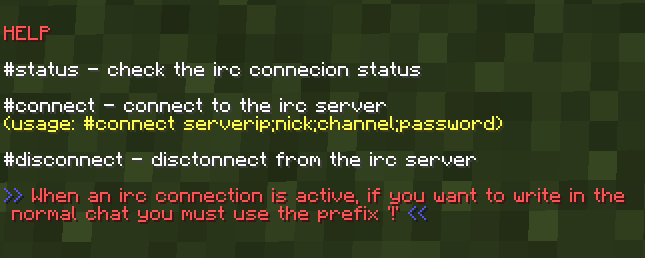
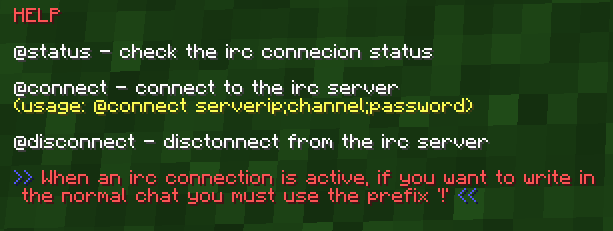
1.0.2 release

diff --git a/src/main/java/net/just/irc/IRCHandler.java b/src/main/java/net/just/irc/IRCHandler.java
@@ -2,6 +2,7 @@ package net.just.irc;
 
 import java.io.*;
 import java.net.*;
+import java.util.concurrent.atomic.AtomicBoolean;
 
 
 public class IRCHandler 
@@ -14,12 +15,15 @@ public class IRCHandler
     
     private String password = "";
     
-    private boolean flag = true;
     
     private BufferedWriter writer;
     private BufferedReader reader;
     
     private Socket socket = null;
+    
+    private boolean flag = true;
+    
+    private AtomicBoolean processed = new AtomicBoolean(true);
 
     public IRCHandler(String server, String nick, String channelname, String password) 
     {
@@ -29,7 +33,8 @@ public class IRCHandler
 		this.channelname = channelname;
 		this.password = password;
 	}
-
+    
+    
 	public void startConn(){
 		new Thread(() -> {
 			try 
@@ -39,121 +44,128 @@ public class IRCHandler
 				writer = new BufferedWriter(new OutputStreamWriter(socket.getOutputStream()));
 				
 				reader = new BufferedReader(new InputStreamReader(socket.getInputStream()));
-			} catch (UnknownHostException e2) 
-			{
-				e2.printStackTrace();
 				
-				ChatUtils.message("\u00A7cUnknown Host");
-				socket = null;
-				
-			} catch (IOException e2) 
-			{
-				e2.printStackTrace();
-				socket = null;
-			}
-
-	        new Thread(() -> {
-	            try {
-	                String line = null;
-	                while ((line = reader.readLine()) != null) {
-	                	
-	                	if(flag)
-	                	{
-	                		//ChatUtils.message(line);
-	                		//System.out.println(line);
-	                		if(line.contains("incorrect channel key"))
-	                		{
-	                			ChatUtils.message("\u00A7cCannot join channel (incorrect channel key)");
-	                			closeConnection();
-	                		}
-	                	}
-	                	else
-	                	{
-	                		String[] f1 = line.split(":");
-	                		String[] f2 = f1[1].split("!");
-	                		/*StringTokenizer st = new StringTokenizer(line,":");
-	                		StringTokenizer st1 = new StringTokenizer(st.nextToken(),"!");*/
-	                		ChatUtils.message("\u00A7c" + f2[0] + " \u00A7f>> " + f1[2]);
-	                		//ChatUtils.message(line);
-	                	}
-	                }
-	            } catch (Exception e) {
-	                System.err.println(e.getMessage());
-	                login(writer);
-	            }
-
-	        }).start();
-
-	        if(login(writer))
-	        {
-	        	
-	        	ChatUtils.message("\u00A7aconnected " + server + " success");
-		        ChatUtils.message("\u00A76waiting for the channel...");
-	        	
-		        try
-		        {
-					Thread.sleep(10000);
-				} catch (InterruptedException e1) {
-					// TODO Auto-generated catch block
-					e1.printStackTrace();
-				}
-		        
-	        	if(join("#" + channelname + " " + password))
-	        	{
-	        		try {
-	    				Thread.sleep(10000);
+				synchronized(processed) 
+			    {
+			    	login(writer);
+			        ChatUtils.message("\u00A7aconnected " + server + " success");
+				    ChatUtils.message("\u00A76waiting for the channel...");
+				    
+				    Listener();
+				    
+				    try {
+						processed.wait();
+					} catch (InterruptedException e) {
+						// TODO Auto-generated catch block
+						e.printStackTrace();
+					}
+			        join("#" + channelname + " " + password);
+			        
+			        try {
+	    				Thread.sleep(1000);
 	    			} catch (InterruptedException e) {
 	    				// TODO Auto-generated catch block
 	    				e.printStackTrace();
 	    			}
-	        		if(isOpen())
-	        		{
-	        			ChatUtils.message("\u00A7e[\u00A7aDONE\u00A7e]");
-	        			flag = false;
-	        		}
-	        	}
-	        	else
-	        	{
-	        		ChatUtils.message("\u00A7c Channel connection failed!");
-	        		closeConnection();
-	        	}
-	        }
-	        else
-	        {
-	        	ChatUtils.message("\u00A7c Login failed!");
-	        	closeConnection();
-	        }
-	        
-	        
-		}).start();
-        
-        
-        
-       //sendGroupMsg(groupMsg);
-        //System.exit(0);
+			        
+			        if(isOpen())
+			        {
+			        	ChatUtils.message("\u00A7e[\u00A7aDONE\u00A7e]");
+			        }
+			    }
+				
+				
+				
+			} catch (Exception e) 
+			{
+				e.printStackTrace();
+				
+				ChatUtils.message("\u00A7cUnknown Host");
+				//socket = null;
+				
+			}
+	         
+		}).start();    
+       //System.exit(0);
     }
+	
+	
+	public void Listener()
+	{
+		new Thread(() -> {
+            try {
+                String line = null;
+                while ((line = reader.readLine()) != null) {
+                	
+                	if(line.startsWith("PING"))
+            		{
+            			writer.write(line.replace("PING", "PONG"));
+            			sendGroupMsg("PONG");
+            			//ChatUtils.message("Rispondo al PING: PONG");
+            		}
+                	
+                	
+                	if(flag)
+                	{
+                		if(line.contains("incorrect channel key"))
+                		{
+                			ChatUtils.message("\u00A7cCannot join channel (incorrect channel key)");
+                			closeConnection();
+                		}
+                		
+                		if(line.toLowerCase().contains("message of the day"))
+                		{
+                			synchronized(processed) 
+                			{
+                	            processed.notify();
+                	        }
+                		}
+                		
+                		if(line.toLowerCase().contains("/names"))
+                		{
+                			flag = false;
+                		}
+                	}
+                	else
+                	{
+                		try
+                		{
+                			String[] f1 = line.split(":");
+                        	String[] f2 = f1[1].split("!");
+                        	ChatUtils.message("\u00A7c" + f2[0] + " \u00A7f>> " + f1[2]);
+                		}
+                		catch(Exception e) {}
+                	}
 
-    public boolean join(String channelname) {
+                }
+            } catch (Exception e) {
+                System.err.println(e.getMessage());
+                if (isOpen()) login(writer);
+            }
+
+        }).start();
+	}
+
+    public void join(String channelname) {
         try {
             writer.write("JOIN " + channelname + "\r\n");
             writer.flush();
-            return true;
         } catch (IOException e) {
             System.err.println("join error " + e.getMessage());
+            ChatUtils.message("\u00A7cChannel connection failed!");
             login(writer);
-            return false;
         }
     }
 
-    public boolean login(BufferedWriter writer) {
+    public void login(BufferedWriter writer) {
         try {
             writer.write("NICK " + nick + "\r\n");
             writer.write("USER " + nick + " mc * : "+  nick + "\r\n");
             writer.flush();
-            return true;
         } catch (IOException e) {
             System.err.println("login error " + e.getMessage());
-            return false;
+            ChatUtils.message("\u00A7cLogin failed!");
+        	closeConnection();
         }
     }
 
@@ -184,6 +196,7 @@ public class IRCHandler
     	try 
     	{
 			socket.close();
+			
 		} catch (IOException e) 
     	{
 			e.printStackTrace();
@@ -192,7 +205,7 @@ public class IRCHandler
     
     public boolean isOpen()
     {
-    	if(socket.isClosed() || socket == null)
+    	if(socket == null || socket.isClosed())
     	{
     		return false;
     	}
@@ -217,5 +230,9 @@ public class IRCHandler
 	{
 		return nick;
 	}
-    
+	
+	public Socket getSocket()
+	{
+		return socket;
+	}
 }

diff --git a/src/main/java/net/just/irc/mixin/ChatManager.java b/src/main/java/net/just/irc/mixin/ChatManager.java
@@ -14,13 +14,13 @@ import org.spongepowered.asm.mixin.injection.callback.CallbackInfo;
 @Mixin(ClientPlayerEntity.class)
 public class ChatManager 
 {
-	private String prefix = "#";
+	private String prefix = "@";
 	private String global = "!";
 	private String previusGlobal = null;
 	
 	private String help = "\n\n\u00A7cHELP \u00A7f\n\n"
 			+ prefix + "status - check the irc connecion status\n\n"
-			+ prefix + "connect - connect to the irc server \n\u00A7e(usage: "+prefix+"connect serverip;nick;channel;password)\u00A7f\n\n"
+			+ prefix + "connect - connect to the irc server \n\u00A7e(usage: "+prefix+"connect serverip;channel;password)\u00A7f\n\n"
 			+ prefix + "disconnect - disctonnect from the irc server\n\n"
 			+ "\u00A79>>\u00A7c When an irc connection is active, if you want to write in the normal chat you must use the prefix '"+global+"' \u00A79<<\u00A7f\n\n";
 	
@@ -51,7 +51,7 @@ public class ChatManager
     		if(message.equals(prefix + "connect"))
     		{
     			ChatUtils.message("\u00A7cSyntax Error\n"
-    							  + "\u00A7e(usage: "+prefix+"connect serverip;nick;channel;password)\u00A7f");
+    							  + "\u00A7e(usage: "+prefix+"connect serverip;channel;password)\u00A7f");
     		}
     		else
     		{
@@ -66,23 +66,23 @@ public class ChatManager
         		String channel = "";
         		String password = "";
         		
-        		if(fields.length<3)
+        		if(fields.length<2)
         		{
         			ChatUtils.message("\u00A7cTRY AGAIN! SOME IMPORTANT FIELDS ARE EMPTY");
         		}
         		else
-        		{
+        		{  			
         			ip = fields[0];
-        			nick = fields[1];
-        			channel = fields[2];
-        			if(fields.length>3)
+        			nick = ChatUtils.getUsername();
+        			channel = fields[1];
+        			if(fields.length>2)
         			{
-        				password = fields[3];
+        				password = fields[2];
         			}
         			
         			if(ip!="" && nick!="" && channel!="")
             		{
-        				if(Main.irc != null)
+        				if(Main.irc != null && Main.irc.getSocket()!=null)
         				{
         					if(Main.irc.isOpen())
         					{

diff --git a/src/main/java/net/just/irc/ChatUtils.java b/src/main/java/net/just/irc/ChatUtils.java
@@ -26,5 +26,10 @@ public enum ChatUtils
 	{
 		MC.player.sendChatMessage(message);
 	}
+	
+	public static String getUsername()
+	{
+		return MC.player.getName().getString();
+	}
 
 }

diff --git a/README.md b/README.md
@@ -5,15 +5,15 @@ Just IRC is a fabric mod that allows you to connect to an irc server in minecraf
 This is my very first mod I create, so it kinda sucks. I hope to improve it over time!
 
 ## Usage
-- The mod is very simple, and everything you need to know can be found in the game via the command "#help" or "#h"
+- The mod is very simple, and everything you need to know can be found in the game via the command "@help" or "@h"
 
 
-<a href="https://github.com/8bitFra/JustIRC"><img src="https://raw.githubusercontent.com/8bitFra/JustIRC/main/images/help.png" title="help" alt="help" width="545" height="218"></a>
+<a href="https://github.com/8bitFra/JustIRC"><img src="https://raw.githubusercontent.com/8bitFra/JustIRC/main/images/help.png" title="help" alt="help" width="545" height="205"></a>
 
 
 ### Tested on irc.freenode.net and a local server created with InspIRCd
 
 ### Known issues
- - After a period of inactivity, the mod disconnects from the channel
- - Entering a wrong ip in some cases can cause the client to crash
+ - <s>After a period of inactivity, the mod disconnects from the channel</s>
+ - <s>Entering a wrong ip in some cases can cause the client to crash</s>
  - <s>Player death causes data loss</s>
